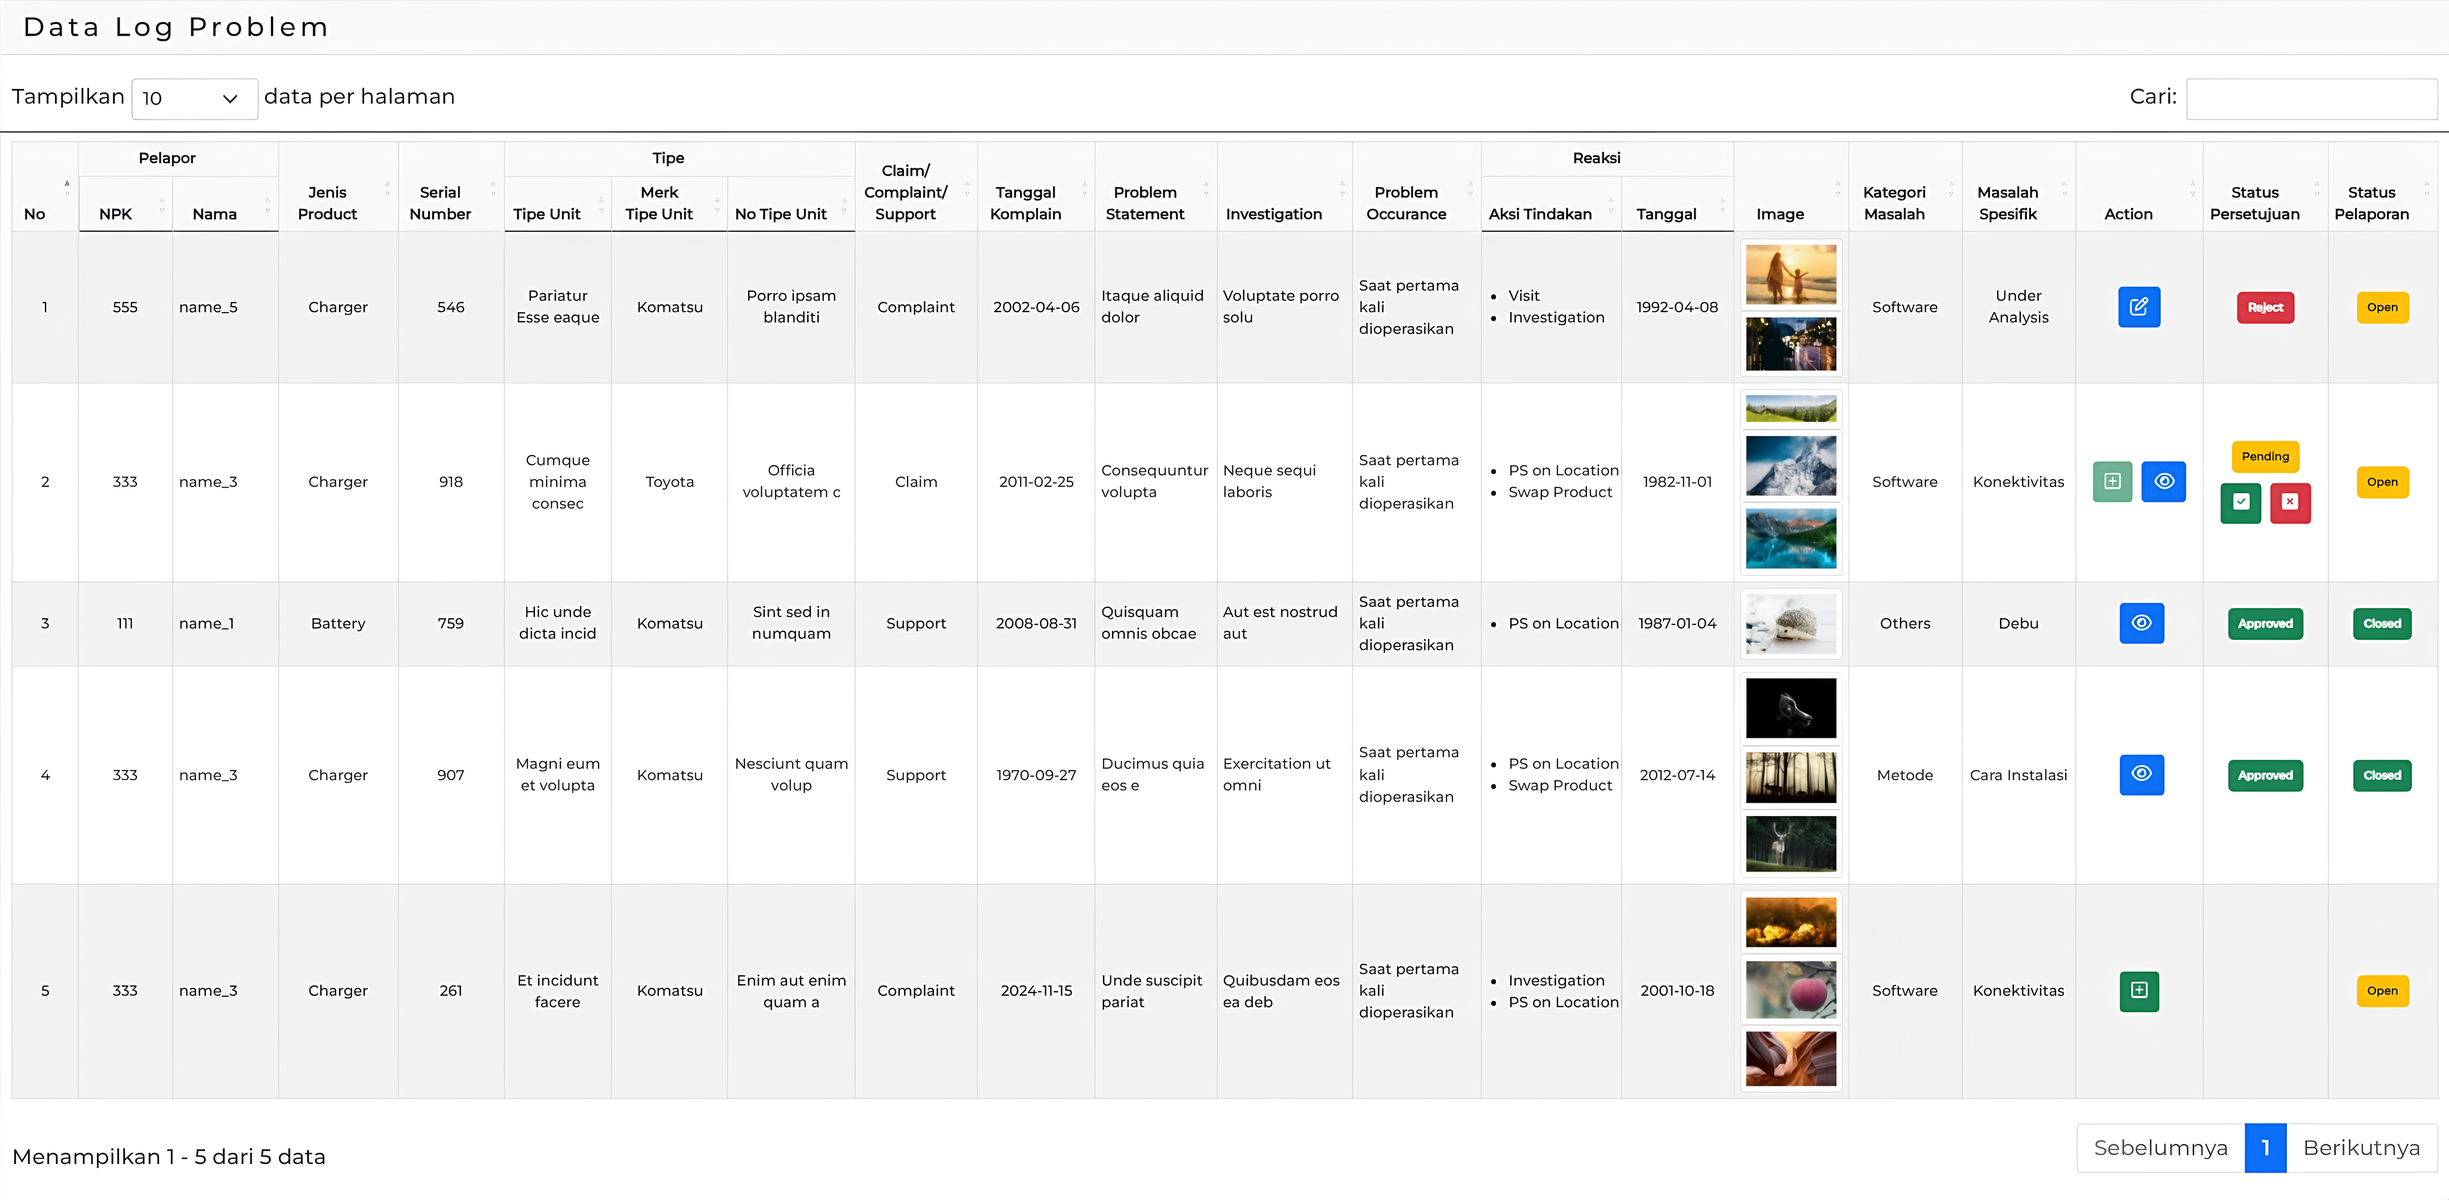
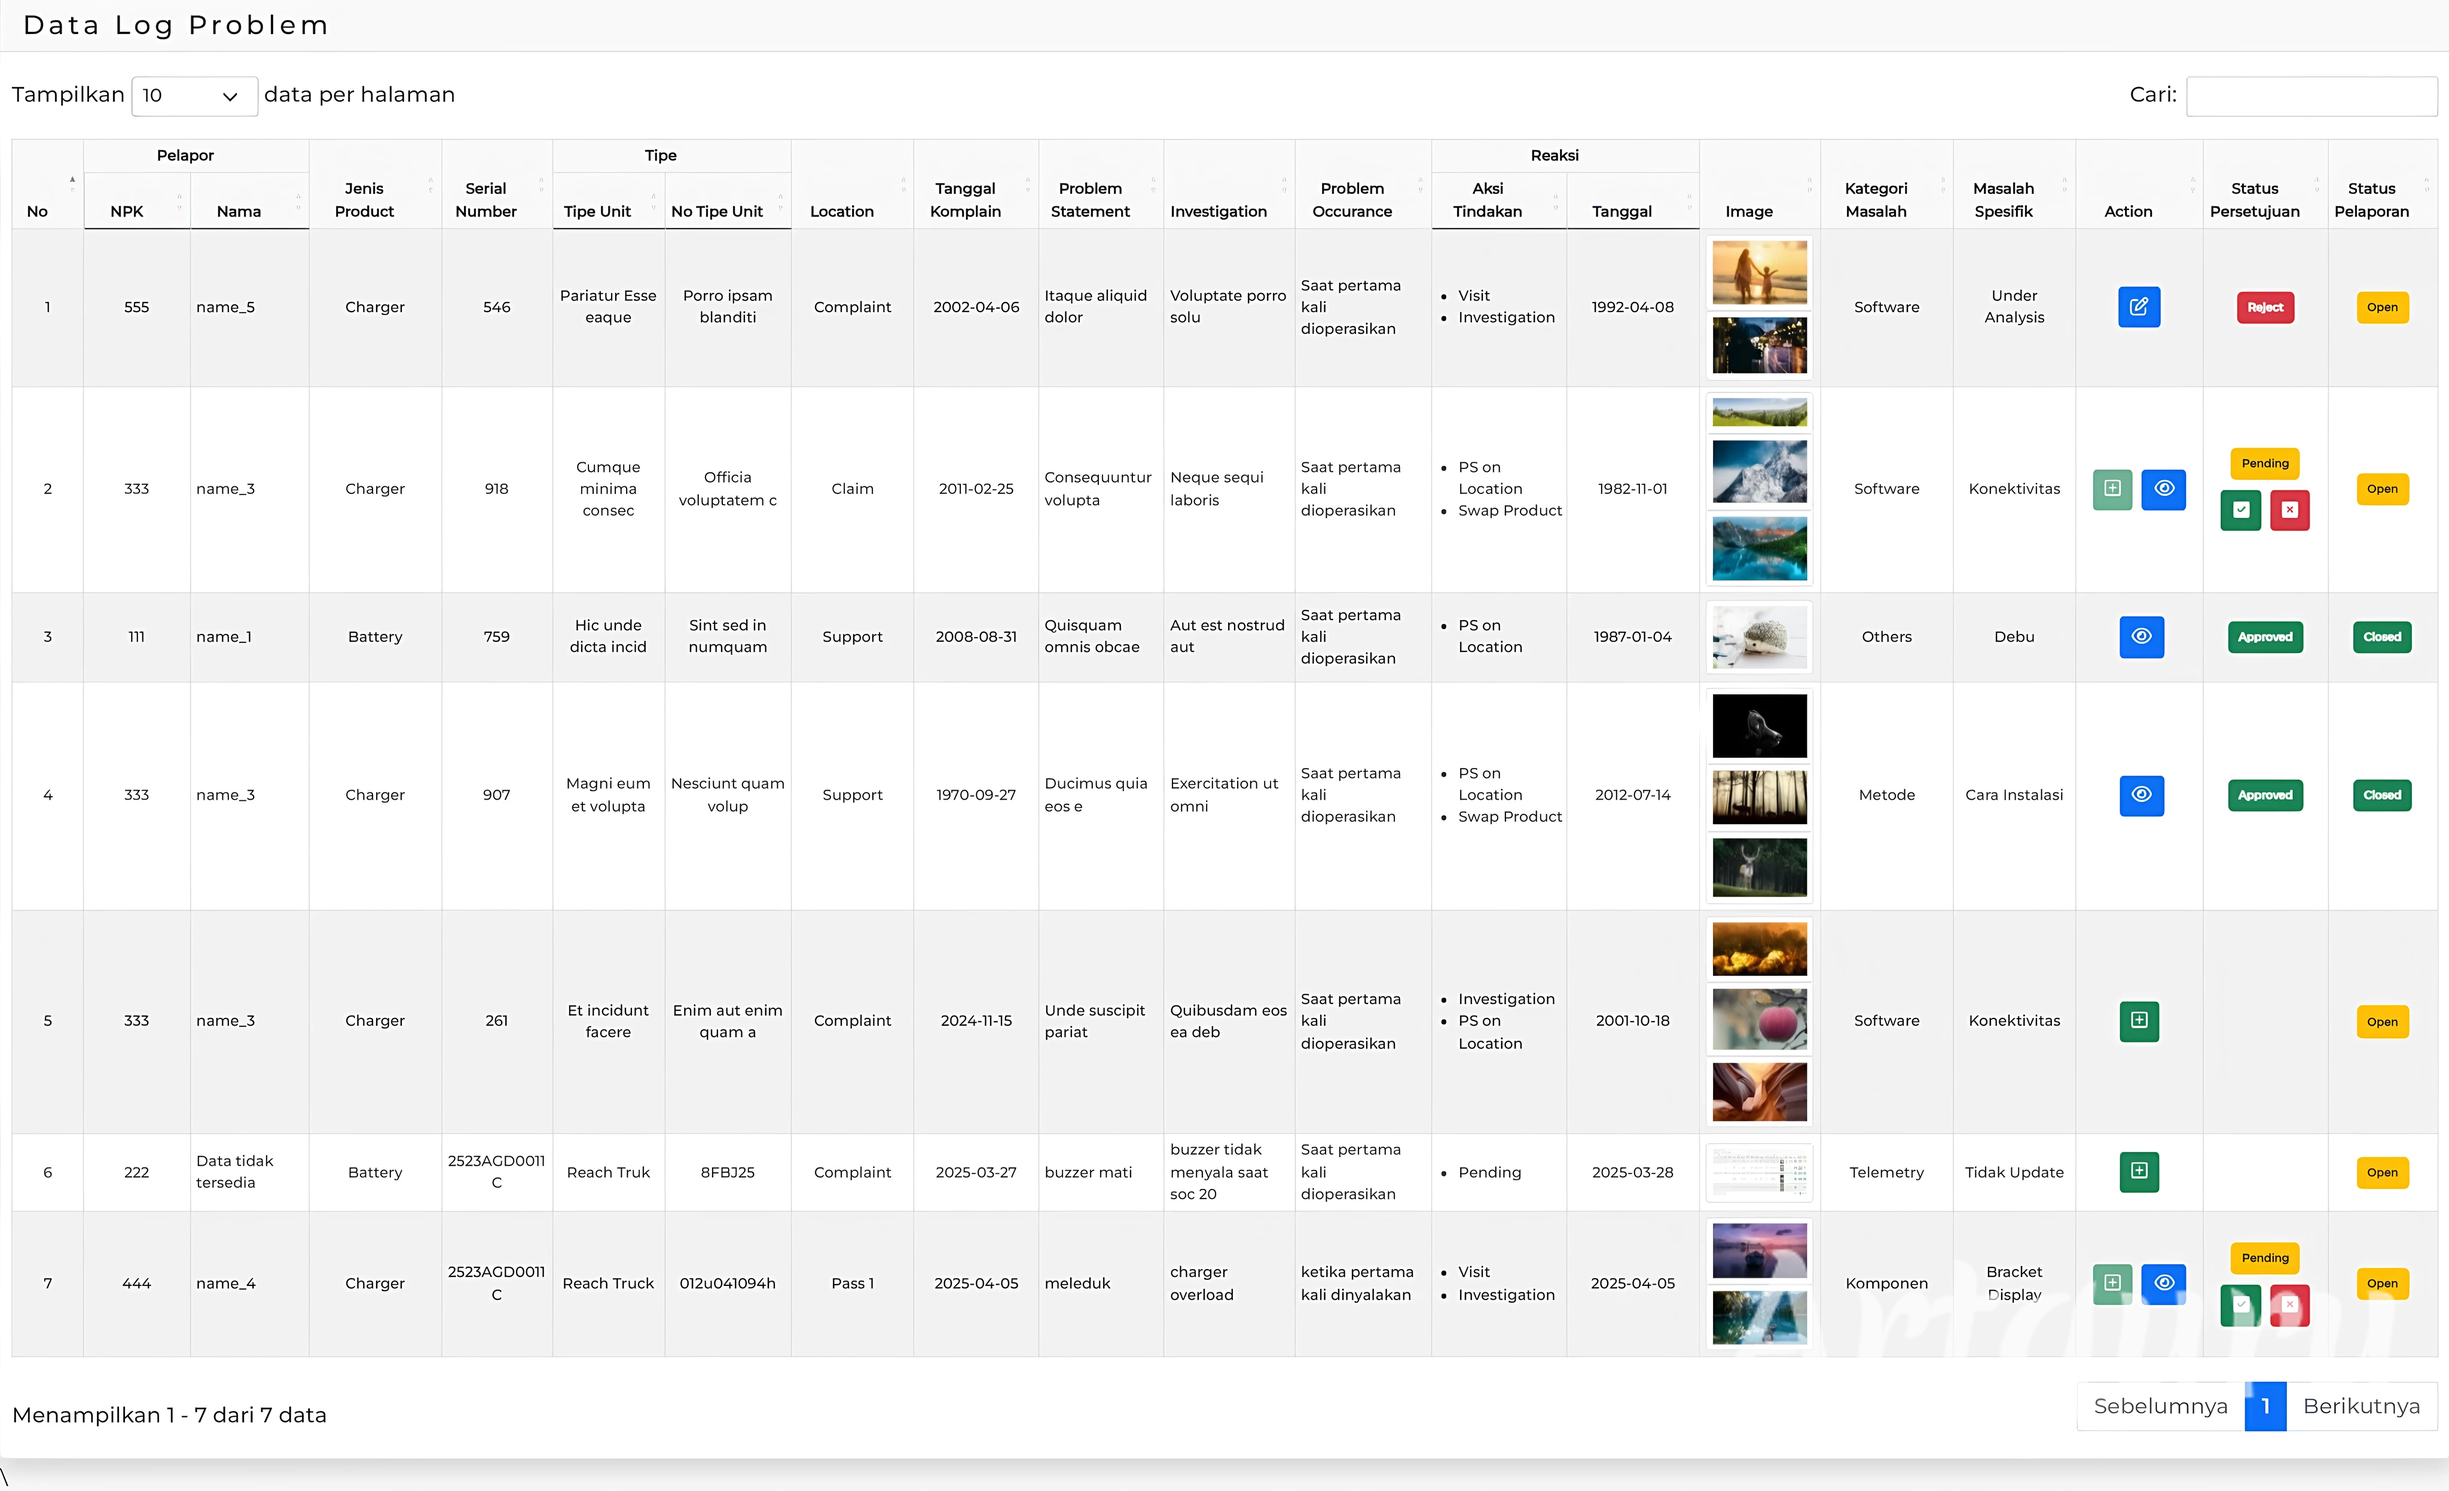
change log problem customer

diff --git a/index.html b/index.html
@@ -706,7 +706,7 @@
                 <img src="assets/images/log_problem/dashboard.jpeg" alt="">
               </div>
               <div class="content-box">
-                <h3 class="portfolio-title">Log Problem</h3>
+                <h3 class="portfolio-title">Log Problem customer</h3>
                 <p>Monitoring and reporting system for battery and charger problem.</p>
                 <i class="flaticon-up-right-arrow"></i>
                 <button data-mfp-src="#portfolio-wrapper-log"
@@ -2060,7 +2060,7 @@
                 </div>
                 <div class="text-box">
                   <p>Address</p>
-                  <a href="https://www.google.com/maps/place/Bekasi,+West+Java/@-6.2525526,106.9602005,12561m/data=!3m1!1e3!4m6!3m5!1s0x2e698c6900964f69:0xd00495351896398!8m2!3d-6.2382699!4d106.9755726!16s%2Fg%2F12ll1ykqt?entry=ttu&g_ep=EgoyMDI1MDMxOC4wIKXMDSoASAFQAw%3D%3D" target="_blank">Kota Bekasi, <br>Jawa Barat, Indonesia</a>
+                  <a href="https://maps.app.goo.gl/tLAKQm8Hhju6xhwq7" target="_blank">Kota Bekasi, <br>Jawa Barat, Indonesia</a>
                 </div>
               </li>
             </ul>
